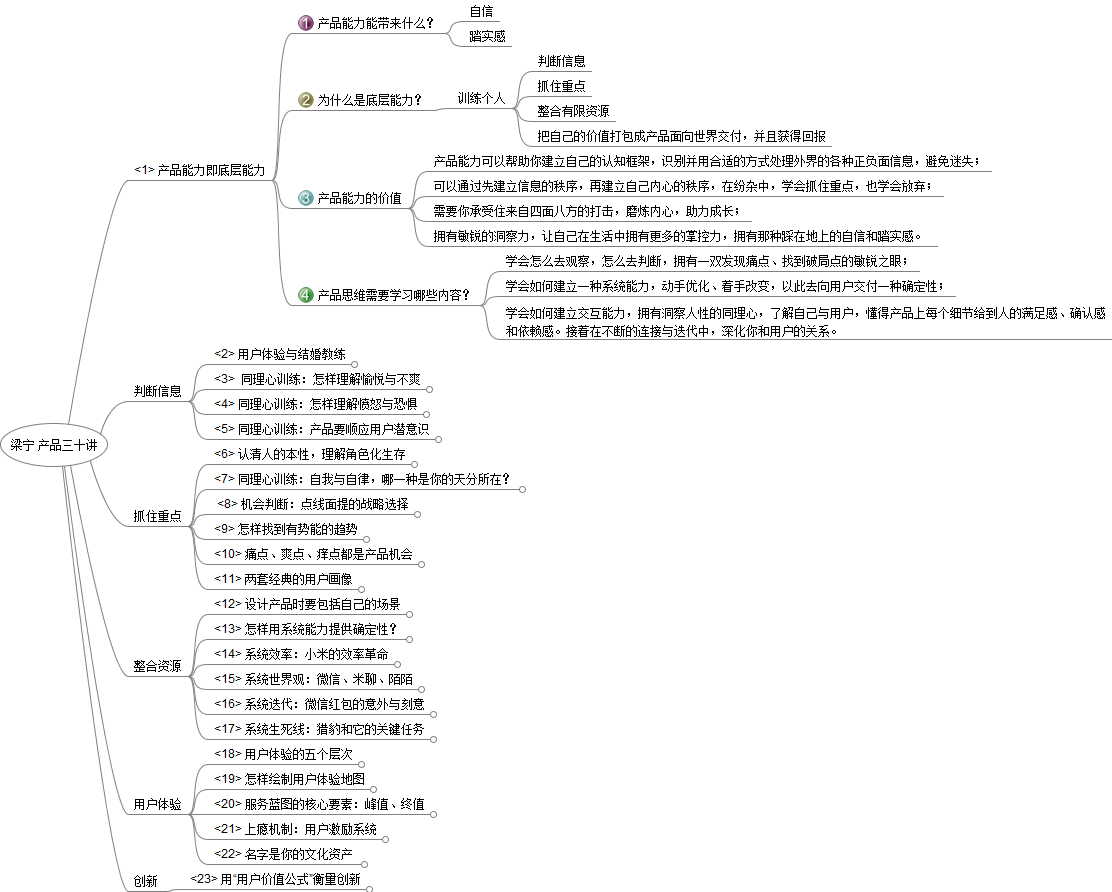
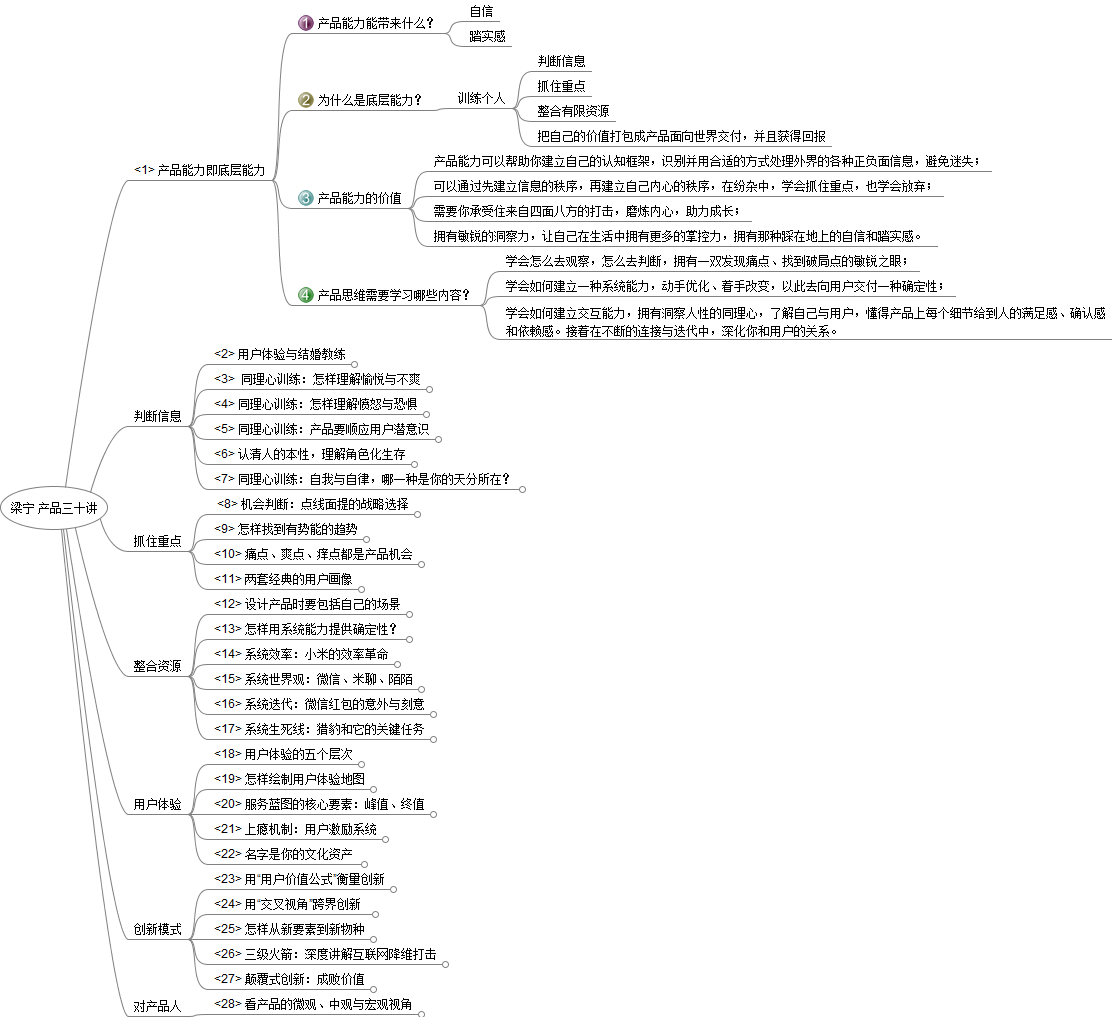
refact: 26,27,28 change style

Changed region(s): [[0.0, 0.0303, 1.0, 1.0], [0.2446, 0.0, 0.4586, 0.0605], [0.3669, 0.9989, 0.3975, 1.0]]

diff --git a/总结.mm b/总结.mm
@@ -1002,6 +1002,111 @@
 </node>
 <node CREATED="1524143092424" ID="ID_1236572864" MODIFIED="1524143127060" TEXT="&#x4f5c;&#x4e1a;&#xff1a;&#x4f60;&#x89c9;&#x5f97;&#x4f60;&#x8eab;&#x8fb9;&#x7684;&#x8c01;&#xff0c;&#x6216;&#x8005;&#x4f60;&#x6307;&#x5bfc;&#x7684;&#x8c01;&#xff0c;&#x7279;&#x522b;&#x64c5;&#x957f;&#x7ed9;&#x81ea;&#x5df1;&#x53bb;&#x5efa;&#x8bbe;&#x52bf;&#x80fd;&#xff1f;"/>
 </node>
+<node CREATED="1524143133844" FOLDED="true" ID="ID_1170859841" MODIFIED="1524187482348" TEXT="&lt;27&gt; &#x98a0;&#x8986;&#x5f0f;&#x521b;&#x65b0;&#xff1a;&#x6210;&#x8d25;&#x4ef7;&#x503c;">
+<node CREATED="1524143768629" ID="ID_37516478" MODIFIED="1524186121019" TEXT="&#x4ec0;&#x4e48;&#x53eb;&#x4ef7;&#x503c;&#x7f51;&#xff1f;">
+<node CREATED="1524179438825" ID="ID_1829557689" MODIFIED="1524179460996" TEXT="&#x771f;&#x6b63;&#x51b3;&#x5b9a;&#x4f01;&#x4e1a;&#x672a;&#x6765;&#x53d1;&#x5c55;&#x65b9;&#x5411;&#x7684;&#x662f;&#x5e02;&#x573a;&#x4ef7;&#x503c;&#x7f51;&#xff0c;&#x800c;&#x975e;&#x7ba1;&#x7406;&#x8005;&#xff1b;"/>
+<node CREATED="1524179463279" ID="ID_458740292" MODIFIED="1524179493691" TEXT="&#x771f;&#x6b63;&#x4e3b;&#x5bfc;&#x4f01;&#x4e1a;&#x53d1;&#x5c55;&#x8fdb;&#x7a0b;&#x7684;&#x662f;&#x673a;&#x6784;&#x4ee5;&#x5916;&#x7684;&#x529b;&#x91cf;&#xff0c;&#x800c;&#x975e;&#x673a;&#x6784;&#x5185;&#x90e8;&#x7684;&#x7ba1;&#x7406;&#x8005;&#x3002;"/>
+<node CREATED="1524179495456" ID="ID_298350315" MODIFIED="1524179511301" TEXT="&#x7ba1;&#x7406;&#x8005;&#x53ea;&#x662f;&#x626e;&#x6f14;&#x4e00;&#x4e2a;&#x8c61;&#x5f81;&#x6027;&#x7684;&#x89d2;&#x8272;&#x3002;"/>
+</node>
+<node CREATED="1524179585671" ID="ID_126298210" MODIFIED="1524186121023" TEXT="&#x4f01;&#x4e1a;&#x771f;&#x6b63;&#x7684;&#x7ba1;&#x7406;&#x8005;">
+<node CREATED="1524179623615" ID="ID_1383856008" MODIFIED="1524179647685" TEXT="&#x8bc6;&#x522b;&#x81ea;&#x5df1;&#x8010;&#x4ee5;&#x751f;&#x5b58;&#x7684;&#x4ef7;&#x503c;&#x7f51;&#x3002;"/>
+<node CREATED="1524179662165" ID="ID_59484804" MODIFIED="1524179670837" TEXT="&#x4e00;&#x4e2a;&#x597d;&#x7684;&#x7ec4;&#x7ec7;&#x7ed3;&#x6784;&#xff0c;&#x5b83;&#x7684;&#x6bcf;&#x4e00;&#x4e2a;&#x7ec4;&#x7ec7;&#x90e8;&#x95e8;&#xff0c;&#x90fd;&#x662f;&#x4e3a;&#x4e86;&#x548c;&#x67d0;&#x4e00;&#x4e2a;&#x793e;&#x4f1a;&#x4ef7;&#x503c;&#x7f51;&#x7684;&#x5206;&#x652f;&#x8fdb;&#x884c;&#x5bf9;&#x63a5;&#x800c;&#x8bbe;&#x8ba1;&#x7684;&#x3002;"/>
+<node CREATED="1524179672170" ID="ID_765759468" MODIFIED="1524179679335" TEXT="&#x4e00;&#x4e2a;&#x5931;&#x8d25;&#x7684;&#x4f01;&#x4e1a;&#x7684;&#x7ec4;&#x7ec7;&#x7ed3;&#x6784;&#xff0c;&#x662f;&#x7ba1;&#x7406;&#x8005;&#x6309;&#x7167;&#x81ea;&#x5df1;&#x9700;&#x6c42;&#x8bbe;&#x7f6e;&#x7684;&#x3002;"/>
+</node>
+<node CREATED="1524180112291" ID="ID_1218609843" MODIFIED="1524186121033" TEXT="&#x4e3a;&#x4ec0;&#x4e48;&#x8c08;&#x4ef7;&#x503c;&#x7f51;&#xff1f;">
+<node CREATED="1524180133326" ID="ID_1773655124" MODIFIED="1524180170042" TEXT="&#x56e0;&#x4e3a;&#x5f88;&#x591a;&#x6ca1;&#x843d;&#x7684;&#x4f01;&#x4e1a;&#xff0c;&#x5728;&#x81ea;&#x5df1;&#x7684;&#x4ef7;&#x503c;&#x7f51;&#x4e0a;&#x4f9d;&#x7136;&#x4f18;&#x79c0;&#xff0c;&#x53ea;&#x662f;&#x5b83;&#x4f9d;&#x9644;&#x7684;&#x4ef7;&#x503c;&#x7f51;&#x8fc7;&#x65f6;&#x4e86;&#xff1b;"/>
+<node CREATED="1524180173973" ID="ID_1589429535" MODIFIED="1524180212291" TEXT="&#x642d;&#x8f7d;&#x5728;&#x65b0;&#x7684;&#x4ef7;&#x503c;&#x7f51;&#x4e0a;&#x7684;&#x4f01;&#x4e1a;&#xff0c;&#x5b9e;&#x73b0;&#x4e86;&#x81ea;&#x5df1;&#x7684;&#x98a0;&#x8986;&#x5f0f;&#x521b;&#x65b0;&#x3002;"/>
+<node CREATED="1524180237192" ID="ID_665170848" MODIFIED="1524180285101" TEXT="&#x5c31;&#x597d;&#x50cf;&#x4f60;&#x662f;&#x4f60;&#x793e;&#x4f1a;&#x5173;&#x7cfb;&#x7684;&#x603b;&#x548c;&#xff0c;&#x4f60;&#x7684;&#x793e;&#x4f1a;&#x5173;&#x7cfb;&#x54fa;&#x80b2;&#x5851;&#x9020;&#x4e86;&#x4f60;&#xff0c;&#x540c;&#x65f6;&#x4ed6;&#x4eec;&#x4e5f;&#x9501;&#x5b9a;&#x3001;&#x9650;&#x5236;&#x548c;&#x675f;&#x7f1a;&#x4e86;&#x4f60;&#x3002;"/>
+<node CREATED="1524180307188" ID="ID_1944298443" MODIFIED="1524180367824" TEXT="&#x4f01;&#x4e1a;&#x6210;&#x5c31;&#x4e8e;&#x81ea;&#x5df1;&#x4e0d;&#x540c;&#x90e8;&#x95e8;&#x548c;&#x5b83;&#x4f9d;&#x9644;&#x4ef7;&#x503c;&#x7f51;&#x4e4b;&#x95f4;&#xff0c;&#x8d44;&#x6e90;&#x4e0e;&#x8d44;&#x91d1;&#x7684;&#x8f93;&#x5165;&#x8f93;&#x51fa;&#x3002;&#x4f46;&#x5b83;&#x8d56;&#x4ee5;&#x5b58;&#x5728;&#x7684;&#x4ef7;&#x503c;&#x7f51;&#xff0c;&#x4e5f;&#x4f1a;&#x9501;&#x6b7b;&#x8fd9;&#x5bb6;&#x4f01;&#x4e1a;&#x3002;"/>
+</node>
+<node CREATED="1524180425912" ID="ID_1648042674" MODIFIED="1524186121047" TEXT="&#x6848;&#x4f8b;UNIVAC&#x4e0e;IBM">
+<node CREATED="1524180450988" ID="ID_1145204859" MODIFIED="1524180461462" TEXT="&#x51fa;&#x53d1;&#x70b9;&#x76f8;&#x540c;&#xff0c;&#x7531;&#x4e8e;&#x5404;&#x81ea;&#x9009;&#x62e9;&#x7684;&#x4ef7;&#x503c;&#x7f51;&#x4e0d;&#x540c;&#xff0c;&#x6700;&#x540e;&#x53ef;&#x80fd;&#x8d70;&#x4e0a;&#x622a;&#x7136;&#x4e0d;&#x540c;&#x7684;&#x8def;&#x3002;"/>
+<node CREATED="1524180569126" ID="ID_1837541087" MODIFIED="1524180573791" TEXT="UNIVAC">
+<node CREATED="1524180574834" ID="ID_1891032056" MODIFIED="1524180635422" TEXT="1950&#x5e74;&#x5de6;&#x53f3;&#xff0c;&#x5e02;&#x573a;&#x8c03;&#x7814;&#x7ed3;&#x8bba;&#xff1a;2000&#x5e74;&#xff0c;&#x7535;&#x8111;&#x9500;&#x552e;&#x91cf;&#x5c06;&#x8fbe;&#x5230;1000&#x53f0;&#x3002;"/>
+<node CREATED="1524180636493" ID="ID_114459626" MODIFIED="1524180660049" TEXT="&#x4e3a;&#x4ec0;&#x4e48;&#x4f1a;&#x51fa;&#x73b0;&#x8fd9;&#x6837;&#x7684;&#x5e02;&#x573a;&#x9884;&#x5224;&#xff1f;">
+<node CREATED="1524180661486" ID="ID_201816659" MODIFIED="1524180681450" TEXT="&#x56e0;&#x4e3a;&#x5b83;&#x57fa;&#x4e8e;&#x81ea;&#x5df1;&#x7684;&#x4ef7;&#x503c;&#x7f51;&#x505a;&#x7684;&#x5224;&#x65ad;"/>
+<node CREATED="1524180682525" ID="ID_37247914" MODIFIED="1524180739361" TEXT="&#x800c;UNIVAC&#x516c;&#x53f8;&#x7684;&#x4ef7;&#x503c;&#x7f51;&#x5c31;&#x662f;&#x4e3a;&#x9876;&#x7ea7;&#x79d1;&#x7814;&#x670d;&#x52a1;&#xff0c;&#x4ece;&#x8fd9;&#x4e2a;&#x89d2;&#x5ea6;&#x800c;&#x8a00;&#xff0c;&#x4ed6;&#x5e76;&#x6ca1;&#x6709;&#x9519;"/>
+</node>
+</node>
+<node CREATED="1524180745455" ID="ID_1616380651" MODIFIED="1524180746837" TEXT="IBM">
+<node CREATED="1524180757494" ID="ID_1389477737" MODIFIED="1524180770040" TEXT="&#x62e5;&#x62b1;&#x4f01;&#x4e1a;&#x5e02;&#x573a;&#x9700;&#x6c42;"/>
+<node CREATED="1524181149508" ID="ID_892092738" MODIFIED="1524181163923" TEXT="&#x4e3a;&#x4ec0;&#x4e48;IBM&#x6ca1;&#x6709;&#x63a8;&#x51fa;&#x5c0f;&#x578b;&#x673a;&#xff1f;">
+<node CREATED="1524181165913" ID="ID_732457346" MODIFIED="1524181215740" TEXT="&#x56e0;&#x4e3a;&#x5b83;&#x7684;&#x5ba2;&#x6237;&#x662f;&#x5927;&#x578b;&#x673a;&#x6784;&#x7684;&#x6838;&#x7b97;&#x548c;&#x6570;&#x636e;&#x5904;&#x7406;&#x90e8;&#x95e8;&#xff0c;&#x4e0d;&#x9700;&#x8981;&#x5c0f;&#x578b;&#x8ba1;&#x7b97;&#x673a;&#x3002;"/>
+<node CREATED="1524181216874" ID="ID_717960713" MODIFIED="1524181237099" TEXT="&#x4ed6;&#x4eec;&#x56e0;&#x4e3a;&#x670d;&#x52a1;&#x5ba2;&#x6237;&#x800c;&#x9519;&#x8fc7;&#x4e86;&#x53e6;&#x5916;&#x4e00;&#x4e2a;&#x5927;&#x7684;&#x589e;&#x957f;&#x3002;"/>
+</node>
+</node>
+</node>
+<node CREATED="1524180863016" ID="ID_1958150298" MODIFIED="1524186121061" TEXT="&#x4ef7;&#x503c;&#x7f51;&#x7684;&#x4e09;&#x5927;&#x8981;&#x7d20;">
+<node CREATED="1524180877660" ID="ID_1205331905" MODIFIED="1524181300733" TEXT="&#x4e00;&#x662f;&#x5ba2;&#x6237;">
+<node CREATED="1524181252641" ID="ID_1449521540" MODIFIED="1524181279508" TEXT="&#x5ba2;&#x6237;&#x662f;&#x6211;&#x4eec;&#x6700;&#x91cd;&#x8981;&#x7684;&#x8d44;&#x4ea7;&#xff0c;&#x4f46;&#x4e5f;&#x53ef;&#x80fd;&#x662f;&#x6211;&#x4eec;&#x6700;&#x4e3b;&#x8981;&#x7684;&#x521b;&#x65b0;&#x76f2;&#x533a;&#x3002;"/>
+<node CREATED="1524181304902" ID="ID_1349740996" MODIFIED="1524181347688" TEXT="&#x6240;&#x4ee5;&#x8d44;&#x6e90;&#x5206;&#x914d;&#x6d41;&#x7a0b;&#x5176;&#x5b9e;&#x4e0d;&#x662f;&#x7ba1;&#x7406;&#x8005;&#x5b9a;&#x4e49;&#x7684;&#xff0c;&#x800c;&#x662f;&#x6765;&#x81ea;&#x4ef7;&#x503c;&#x7f51;&#x4e2d;&#x7684;&#x5ba2;&#x6237;&#x9700;&#x6c42;&#x4e0e;&#x5bf9;&#x624b;&#x6324;&#x538b;&#x3002;"/>
+<node CREATED="1524181351767" ID="ID_472368228" MODIFIED="1524181371844" TEXT="&#x5e76;&#x4e0d;&#x662f;&#x6709;&#x6280;&#x672f;&#x3001;&#x6709;&#x4eba;&#x624d;&#x5c31;&#x4ec0;&#x4e48;&#x90fd;&#x80fd;&#x505a;&#x3002;"/>
+</node>
+<node CREATED="1524180885603" ID="ID_775687150" MODIFIED="1524180892478" TEXT="&#x4e8c;&#x662f;&#x5bf9;&#x624b;">
+<node CREATED="1524181547901" ID="ID_632741922" MODIFIED="1524181592789" TEXT="&#x4e92;&#x76f8;&#x7ade;&#x4e89;&#xff0c;&#x4e92;&#x76f8;&#x53c2;&#x7167;&#xff0c;&#x8c01;&#x4e5f;&#x79bb;&#x4e0d;&#x5f00;&#x8c01;&#xff0c;&#x773c;&#x91cc;&#x5168;&#x662f;&#x7ade;&#x4e89;&#x5bf9;&#x624b;&#x3002;"/>
+<node CREATED="1524181415662" ID="ID_193105361" MODIFIED="1524181435353" TEXT="&#x771f;&#x6b63;&#x7f20;&#x4f4f;&#x4f60;&#x89c6;&#x91ce;&#x7684;&#xff0c;&#x6709;&#x65f6;&#x5019;&#x4e0d;&#x662f;&#x5ba2;&#x6237;&#xff0c;&#x800c;&#x662f;&#x4f60;&#x7684;&#x5bf9;&#x624b;&#x3002;"/>
+<node CREATED="1524181436254" ID="ID_82302353" MODIFIED="1524181465429" TEXT="&#x6240;&#x4ee5;&#xff0c;&#x653e;&#x4e0b;&#x8d2a;&#x5a6a;&#x3001;&#x6124;&#x6012;&#xff0c;&#x8fd9;&#x4e5f;&#x8bb8;&#x771f;&#x7684;&#x8981;&#x8003;&#x667a;&#x6167;&#x3002;"/>
+</node>
+<node CREATED="1524180893531" ID="ID_183141346" MODIFIED="1524180903075" TEXT="&#x4e09;&#x662f;&#x6295;&#x8d44;&#x4eba;">
+<node CREATED="1524181673627" ID="ID_36233939" MODIFIED="1524181689161" TEXT="&#x8d44;&#x672c;&#x6240;&#x8981;&#x6c42;&#x7684;&#x589e;&#x957f;&#x662f;&#x4e2a;&#x9b54;&#x5492;"/>
+<node CREATED="1524182613078" ID="ID_274595385" MODIFIED="1524182614253" TEXT="&#x5728;&#x8d44;&#x672c;&#x7684;&#x589e;&#x957f;&#x538b;&#x529b;&#x4e0b;&#xff0c;&#x5927;&#x516c;&#x53f8;&#x5f88;&#x96be;&#x8fdb;&#x5165;&#x5c0f;&#x5e02;&#x573a;&#xff0c;&#x8fd9;&#x7ed9;&#x4e86;&#x5c0f;&#x7684;&#x521b;&#x4e1a;&#x516c;&#x53f8;&#x5d1b;&#x8d77;&#x7684;&#x673a;&#x4f1a;&#x3002;"/>
+</node>
+<node CREATED="1524180912519" ID="ID_1979613141" MODIFIED="1524180941867" TEXT="&#x5c31;&#x662f;&#x8fd9;&#x4e09;&#x4e2a;&#x6838;&#x5fc3;&#x529b;&#x91cf;&#xff0c;&#x52a0;&#x4e0a;&#x5176;&#x4ed6;&#x5343;&#x4e1d;&#x4e07;&#x7f15;&#x7684;&#x7275;&#x5236;&#xff0c;&#x7262;&#x7262;&#x5730;&#x6346;&#x4f4f;&#x4e00;&#x4e2a;&#x5927;&#x4f01;&#x4e1a;&#x3002;"/>
+</node>
+<node CREATED="1524182631215" ID="ID_1466714188" MODIFIED="1524186121062" TEXT="&#x7ec4;&#x7ec7;&#x7684;&#x5fc3;&#x667a;&#x6a21;&#x5f0f;">
+<node CREATED="1524182643716" ID="ID_627079855" MODIFIED="1524182644748" TEXT="&#x5b9a;&#x4e0b;&#x6765;&#x5c31;&#x771f;&#x7684;&#x5f88;&#x96be;&#x4ee5;&#x6539;&#x53d8;&#xff0c;&#x50cf;&#x6211;&#x4eec;&#x7684;&#x57fa;&#x56e0;&#x4e00;&#x6837;&#x770b;&#x4e0d;&#x89c1;&#xff0c;&#x4f46;&#x51b3;&#x5b9a;&#x7ec4;&#x7ec7;&#x7684;&#x6574;&#x4f53;&#x601d;&#x8003;&#x65b9;&#x5f0f;&#x3002;"/>
+</node>
+<node CREATED="1524182669313" ID="ID_86164653" MODIFIED="1524186121063" TEXT="&#x65b0;&#x7684;&#x589e;&#x91cf;&#x5e02;&#x573a;">
+<node CREATED="1524182679503" ID="ID_1360622039" MODIFIED="1524182680976" TEXT="&#x610f;&#x5473;&#x7740;&#x8fd9;&#x662f;&#x4e00;&#x4e2a;&#x65b0;&#x7684;&#x4ef7;&#x503c;&#x7f51;"/>
+</node>
+<node CREATED="1524182688774" ID="ID_216098309" MODIFIED="1524186121064" TEXT="&#x4ec0;&#x4e48;&#x662f;&#x975e;&#x8fde;&#x7eed;&#xff1f;">
+<node CREATED="1524182699243" ID="ID_1661106839" MODIFIED="1524182700511" TEXT="&#x6574;&#x4e2a;&#x793e;&#x4f1a;&#x5728;&#x53d1;&#x5c55;&#xff0c;&#x6574;&#x4f53;&#x793e;&#x4f1a;&#x80fd;&#x529b;&#x5347;&#x7ea7;&#xff0c;&#x65b0;&#x7684;&#x9700;&#x6c42;&#x88ab;&#x91ca;&#x653e;&#x50ac;&#x751f;&#x65b0;&#x7684;&#x4ef7;&#x503c;&#x7f51;&#x3002;"/>
+</node>
+<node CREATED="1524144615432" ID="ID_3900027" MODIFIED="1524186121067" TEXT="&#x4ec0;&#x4e48;&#x662f;&#x98a0;&#x8986;&#x5f0f;&#x521b;&#x65b0;&#xff1f;">
+<node CREATED="1524144635026" ID="ID_984385313" MODIFIED="1524144635888" TEXT="&#x98a0;&#x8986;&#x5f0f;&#x521b;&#x65b0;&#x6700;&#x91cd;&#x8981;&#x7684;&#x6807;&#x51c6;&#x5c31;&#x662f;&#xff0c;&#x662f;&#x5426;&#x5f00;&#x542f;&#x4e86;&#x4e00;&#x4e2a;&#x65b0;&#x7684;&#x4ef7;&#x503c;&#x7f51;&#xff1f;"/>
+<node CREATED="1524144648993" ID="ID_808387994" MODIFIED="1524144650057" TEXT="&#x4f60;&#x662f;&#x4e0d;&#x662f;&#x5230;&#x4e86;&#x201c;&#x65b0;&#x5927;&#x9646;&#x201d;&#xff1f;&#x4e5f;&#x8bb8;&#x5b83;&#x521a;&#x4e00;&#x5f00;&#x59cb;&#x5f88;&#x5c0f;&#xff0c;&#x4e0d;&#x5230;&#x4f20;&#x7edf;&#x4f01;&#x4e1a;&#x7684;1%&#x3002;&#x4f46;&#x662f;&#xff0c;&#x5b83;&#x4e00;&#x65e6;&#x5f00;&#x59cb;&#xff0c;&#x5c31;&#x4e0d;&#x53ef;&#x9006;&#x3002;"/>
+</node>
+</node>
+</node>
+<node CREATED="1524187450997" ID="ID_1007733726" MODIFIED="1524187462476" POSITION="right" TEXT="&#x5bf9;&#x4ea7;&#x54c1;&#x4eba;">
+<node CREATED="1524182755553" FOLDED="true" ID="ID_364726573" MODIFIED="1524187501828" TEXT="&lt;28&gt; &#x770b;&#x4ea7;&#x54c1;&#x7684;&#x5fae;&#x89c2;&#x3001;&#x4e2d;&#x89c2;&#x4e0e;&#x5b8f;&#x89c2;&#x89c6;&#x89d2;">
+<node CREATED="1524182773231" ID="ID_754969021" MODIFIED="1524183198406" TEXT="&#x4e2d;&#x89c2;&#x9760;&#x5957;&#x8def;">
+<node CREATED="1524182776488" ID="ID_1495453851" MODIFIED="1524182839245" TEXT="&#x5b66;&#x4e60;&#x62db;&#x6570;"/>
+<node CREATED="1524182854733" ID="ID_1315678650" MODIFIED="1524182858156" TEXT="&#x4f18;&#x52bf;">
+<node CREATED="1524182789837" ID="ID_604624217" MODIFIED="1524182791153" TEXT="&#x5927;&#x5b66;&#x6bd5;&#x4e1a;&#x53bb;&#x5927;&#x516c;&#x53f8;&#x662f;&#x6709;&#x4ef7;&#x503c;&#x7684;&#xff0c;&#x56e0;&#x4e3a;&#x5957;&#x8def;&#x6709;&#x4ef7;&#x503c;&#x3002;"/>
+<node CREATED="1524182796135" ID="ID_1345572663" MODIFIED="1524182796986" TEXT="&#x5957;&#x8def;&#x50cf;&#x6b66;&#x529f;&#x62db;&#x6570;&#x4e00;&#x6837;&#xff0c;&#x662f;&#x524d;&#x4eba;&#x603b;&#x7ed3;&#x7684;&#x6709;&#x6548;&#x7ecf;&#x9a8c;&#x3002;"/>
+<node CREATED="1524182801704" ID="ID_711841652" MODIFIED="1524182802848" TEXT="&#x7ec3;&#x597d;&#x5957;&#x8def;&#x53ef;&#x4ee5;&#x81ea;&#x6211;&#x6392;&#x67e5;&#x95ee;&#x9898;&#xff0c;&#x4fbf;&#x4e8e;&#x548c;&#x56e2;&#x961f;&#x6c9f;&#x901a;&#x3002;"/>
+</node>
+<node CREATED="1524182863964" ID="ID_646200353" MODIFIED="1524182866818" TEXT="&#x52a3;&#x52bf;">
+<node CREATED="1524182815995" ID="ID_1791589377" MODIFIED="1524182817266" TEXT="&#x5927;&#x516c;&#x53f8;&#x6559;&#x4f60;&#x5957;&#x8def;&#xff0c;&#x4e5f;&#x4f1a;&#x6df1;&#x6df1;&#x7684;&#x675f;&#x7f1a;&#x4f60;&#x7684;&#x53d1;&#x5c55;&#xff0c;&#x56e0;&#x4e3a;&#x9760;&#x5957;&#x8def;&#x6210;&#x4e0d;&#x4e86;&#x9ad8;&#x624b;&#x3002;"/>
+<node CREATED="1524182830908" ID="ID_1356938761" MODIFIED="1524182833156" TEXT="&#x5957;&#x8def;&#x53ef;&#x4ee5;&#x8ba9;&#x4f60;&#x66f4;&#x6709;&#x7ae0;&#x6cd5;&#x5730;&#x5c55;&#x73b0;&#x81ea;&#x5df1;&#xff0c;&#x66f4;&#x5bb9;&#x6613;&#x641e;&#x5b9a;&#x9762;&#x8bd5;&#x5b98;&#xff0c;&#x6210;&#x4e3a;&#x7cfb;&#x7edf;&#x5185;&#x6309;&#x6307;&#x4ee4;&#x884c;&#x4e8b;&#x7684;&#x516c;&#x53f8;&#x4e2d;&#x5c42;&#x3002;"/>
+<node CREATED="1524182880103" ID="ID_620329354" MODIFIED="1524182881042" TEXT="&#x4f46;&#x5982;&#x679c;&#x60f3;&#x81ea;&#x7acb;&#x95e8;&#x6237;&#x51fa;&#x6765;&#x521b;&#x4e1a;&#xff0c;&#x6210;&#x4e3a;&#x81ea;&#x6211;&#x51b3;&#x7b56;&#x7684;&#x9ad8;&#x624b;&#xff0c;&#x9700;&#x8981;&#x5efa;&#x7acb;&#x7cbe;&#x5fae;&#x7684;&#x5fae;&#x89c2;&#x4f53;&#x611f;&#x3002;"/>
+</node>
+<node CREATED="1524183199815" ID="ID_1765036936" MODIFIED="1524183215212" TEXT="&#x5957;&#x8def;&#x603b;&#x7ed3;">
+<node CREATED="1524183215858" ID="ID_852735967" MODIFIED="1524183252375" TEXT="&#x7528;&#x6237;&#x753b;&#x50cf;&#x3001;&#x75db;&#x70b9;&#x548c;&#x75d2;&#x70b9;&#x3001;&#x6574;&#x4f53;&#x6d41;&#x7a0b;&#x56fe;&#x3001;&#x7528;&#x6237;&#x4f53;&#x9a8c;&#x5730;&#x56fe;&#x548c;&#x670d;&#x52a1;&#x5730;&#x56fe;"/>
+</node>
+</node>
+<node CREATED="1524182894002" ID="ID_1316639540" MODIFIED="1524186110021" TEXT="&#x5fae;&#x89c2;&#x9760;&#x4f53;&#x611f;">
+<node CREATED="1524182902633" ID="ID_1725625371" MODIFIED="1524182906049" TEXT="&#x6210;&#x4e3a;&#x9ad8;&#x624b;"/>
+<node CREATED="1524182925958" ID="ID_1712935939" MODIFIED="1524182932787" TEXT="&#x4ea7;&#x54c1;&#x662f;&#x4e00;&#x79cd;&#x88ab;&#x52a8;&#x7684;&#x827a;&#x672f;&#x3002;"/>
+<node CREATED="1524182933884" ID="ID_1741277764" MODIFIED="1524182935081" TEXT="&#x4e00;&#x4e2a;&#x4ea7;&#x54c1;&#x53ea;&#x80fd;&#x5728;&#x88ab;&#x52a8;&#x4e2d;&#xff0c;&#x9ed8;&#x9ed8;&#x628a;&#x63e1;&#x6bcf;&#x4e00;&#x4e2a;&#x5fae;&#x5c0f;&#x7684;&#x4e3b;&#x52a8;&#x673a;&#x4f1a;&#xff0c;&#x5728;&#x6bcf;&#x4e00;&#x4e2a;&#x63a5;&#x89e6;&#x7684;&#x77ac;&#x95f4;&#xff0c;&#x6bcf;&#x4e00;&#x6b21;&#x7684;&#x4ea4;&#x4e92;&#x91cc;&#xff0c;&#x8ba9;&#x7528;&#x6237;&#x987a;&#x7545;&#x5730;&#x6df1;&#x5165;&#x4e0b;&#x6765;&#x3002;"/>
+<node CREATED="1524182958621" ID="ID_276237103" MODIFIED="1524182959520" TEXT="&#x4e00;&#x4e07;&#x5c0f;&#x65f6;&#x6210;&#x529f;&#x5b9a;&#x5f8b;&#x4e2d;&#xff0c;&#x5927;&#x91cf;&#x7684;&#x65f6;&#x95f4;&#x90fd;&#x662f;&#x5728;&#x5efa;&#x7acb;&#x7ec6;&#x5fae;&#x7684;&#x5fae;&#x89c2;&#x4f53;&#x611f;&#xff0c;&#x5efa;&#x7acb;&#x957f;&#x5728;&#x81ea;&#x5df1;&#x8eab;&#x4f53;&#x4e0a;&#x7684;&#x771f;&#x5b9e;&#x611f;&#x89c9;&#xff0c;&#x7728;&#x773c;&#x4e4b;&#x95f4;&#x7684;&#x597d;&#x6076;&#x5224;&#x65ad;&#x3002;"/>
+<node CREATED="1524182964591" ID="ID_387276068" MODIFIED="1524182965775" TEXT="&#x53ea;&#x77e5;&#x9053;&#x5957;&#x8def;&#xff0c;&#x7f3a;&#x4e4f;&#x5fae;&#x89c2;&#x4f53;&#x611f;&#xff0c;&#x5982;&#x540c;&#x7eb8;&#x4e0a;&#x8c08;&#x5175;&#xff0c;&#x8bf4;&#x7684;&#x90fd;&#x5bf9;&#xff0c;&#x505a;&#x8d77;&#x6765;&#x4e0d;&#x5230;&#x4f4d;&#x3002;"/>
+</node>
+<node CREATED="1524182971574" ID="ID_1840330776" MODIFIED="1524182977424" TEXT="&#x5b8f;&#x89c2;&#x9760;&#x80fd;&#x529b;">
+<node CREATED="1524182981713" ID="ID_1672527087" MODIFIED="1524183485294" TEXT="&#x6253;&#x5927;&#x4ed7;"/>
+<node CREATED="1524183302153" ID="ID_932049305" MODIFIED="1524183303052" TEXT="&#x4ec0;&#x4e48;&#x662f;&#x5b8f;&#x89c2;&#x80fd;&#x529b;&#xff1f;">
+<node CREATED="1524183309303" ID="ID_826406302" MODIFIED="1524183310266" TEXT="&#x5c31;&#x662f;&#x6253;&#x5927;&#x4ed7;&#x7684;&#x80fd;&#x529b;&#x3002;&#x5927;&#x4ed7;&#x62fc;&#x80dc;&#x8d1f;&#xff0c;&#x9760;&#x7684;&#x662f;&#x5b8f;&#x89c2;&#x80fd;&#x529b;&#x3002;"/>
+</node>
+<node CREATED="1524183486408" ID="ID_1508298041" MODIFIED="1524183552406" TEXT="&#x51e0;&#x5bb6;&#x5b9a;&#x4f4d;&#x76f8;&#x4f3c;&#xff0c;&#x4f53;&#x9a8c;&#x76f8;&#x4f3c;&#x7684;&#x4ea7;&#x54c1;&#xff0c;&#x9760;&#x4f18;&#x5316;&#x7528;&#x6237;&#x4f53;&#x9a8c;&#xff0c;&#x5176;&#x5b9e;&#x662f;&#x65e0;&#x6cd5;&#x7ec8;&#x7ed3;&#x6218;&#x4e89;&#x7684;&#x3002;&#x5927;&#x4ed7;&#x62fc;&#x80dc;&#x8d1f;&#xff0c;&#x9760;&#x7684;&#x662f;&#x5b8f;&#x89c2;&#x80fd;&#x529b;&#x3002;"/>
+</node>
+<node CREATED="1524183564654" ID="ID_1529003223" MODIFIED="1524183569003" TEXT="&#x5c0f;&#x7ed3;">
+<node CREATED="1524183327987" ID="ID_757412639" MODIFIED="1524183596353" TEXT="&#x7ec3;&#x597d;&#x5957;&#x8def;&#xff0c;&#x5728;&#x5927;&#x516c;&#x53f8;&#x505a;&#x5230;&#x4e2d;&#x5c42;&#x6ca1;&#x95ee;&#x9898;&#x3002;"/>
+<node CREATED="1524183597729" ID="ID_188936781" MODIFIED="1524183603561" TEXT="&#x8981;&#x60f3;&#x81ea;&#x5df1;&#x4e3a;&#x7ed3;&#x679c;&#x8d1f;&#x8d23;&#xff0c;&#x5f00;&#x95e8;&#x7acb;&#x6237;&#x521b;&#x4e1a;&#xff0c;&#x5fc5;&#x987b;&#x6709;&#x957f;&#x5728;&#x81ea;&#x5df1;&#x8eab;&#x4e0a;&#x7684;&#x5fae;&#x89c2;&#x4f53;&#x611f;&#x3002;"/>
+<node CREATED="1524183621897" ID="ID_1535716457" MODIFIED="1524183637985" TEXT="&#x6ca1;&#x6709;&#x5fae;&#x89c2;&#x4f53;&#x611f;&#xff0c;&#x9760;&#x5957;&#x8def;&#x5224;&#x65ad;&#xff0c;&#x5c31;&#x662f;&#x81ea;&#x6b3a;&#x6b3a;&#x4eba;&#x3002;"/>
+<node CREATED="1524183604797" ID="ID_319610250" MODIFIED="1524183605608" TEXT="&#x6253;&#x5927;&#x4ed7;&#xff0c;&#x505a;&#x9876;&#x7ea7;&#x9ad8;&#x624b;&#xff0c;&#x5176;&#x5b9e;&#x5b8f;&#x89c2;&#x80fd;&#x529b;&#x4e5f;&#x8981;&#x5f3a;&#x3002;"/>
+</node>
+</node>
 </node>
 </node>
 </map>

diff --git a/27.颠覆式创新：成败价值.mm b/27.颠覆式创新：成败价值.mm
@@ -1,23 +1,23 @@
 <map version="1.0.1">
 <!-- To view this file, download free mind mapping software FreeMind from http://freemind.sourceforge.net -->
-<node CREATED="1524143133844" ID="ID_1170859841" MODIFIED="1524182667193" TEXT="&#x98a0;&#x8986;&#x5f0f;&#x521b;&#x65b0;&#xff1a;&#x6210;&#x8d25;&#x4ef7;&#x503c;">
-<node CREATED="1524143768629" FOLDED="true" ID="ID_37516478" MODIFIED="1524181667351" POSITION="right" TEXT="&#x4ec0;&#x4e48;&#x53eb;&#x4ef7;&#x503c;&#x7f51;&#xff1f;">
+<node CREATED="1524143133844" ID="ID_1170859841" MODIFIED="1524187470984" TEXT="&#x98a0;&#x8986;&#x5f0f;&#x521b;&#x65b0;&#xff1a;&#x6210;&#x8d25;&#x4ef7;&#x503c;">
+<node CREATED="1524143768629" ID="ID_37516478" MODIFIED="1524186121019" POSITION="right" TEXT="&#x4ec0;&#x4e48;&#x53eb;&#x4ef7;&#x503c;&#x7f51;&#xff1f;">
 <node CREATED="1524179438825" ID="ID_1829557689" MODIFIED="1524179460996" TEXT="&#x771f;&#x6b63;&#x51b3;&#x5b9a;&#x4f01;&#x4e1a;&#x672a;&#x6765;&#x53d1;&#x5c55;&#x65b9;&#x5411;&#x7684;&#x662f;&#x5e02;&#x573a;&#x4ef7;&#x503c;&#x7f51;&#xff0c;&#x800c;&#x975e;&#x7ba1;&#x7406;&#x8005;&#xff1b;"/>
 <node CREATED="1524179463279" ID="ID_458740292" MODIFIED="1524179493691" TEXT="&#x771f;&#x6b63;&#x4e3b;&#x5bfc;&#x4f01;&#x4e1a;&#x53d1;&#x5c55;&#x8fdb;&#x7a0b;&#x7684;&#x662f;&#x673a;&#x6784;&#x4ee5;&#x5916;&#x7684;&#x529b;&#x91cf;&#xff0c;&#x800c;&#x975e;&#x673a;&#x6784;&#x5185;&#x90e8;&#x7684;&#x7ba1;&#x7406;&#x8005;&#x3002;"/>
 <node CREATED="1524179495456" ID="ID_298350315" MODIFIED="1524179511301" TEXT="&#x7ba1;&#x7406;&#x8005;&#x53ea;&#x662f;&#x626e;&#x6f14;&#x4e00;&#x4e2a;&#x8c61;&#x5f81;&#x6027;&#x7684;&#x89d2;&#x8272;&#x3002;"/>
 </node>
-<node CREATED="1524179585671" FOLDED="true" ID="ID_126298210" MODIFIED="1524181665736" POSITION="right" TEXT="&#x4f01;&#x4e1a;&#x771f;&#x6b63;&#x7684;&#x7ba1;&#x7406;&#x8005;">
+<node CREATED="1524179585671" ID="ID_126298210" MODIFIED="1524186121023" POSITION="right" TEXT="&#x4f01;&#x4e1a;&#x771f;&#x6b63;&#x7684;&#x7ba1;&#x7406;&#x8005;">
 <node CREATED="1524179623615" ID="ID_1383856008" MODIFIED="1524179647685" TEXT="&#x8bc6;&#x522b;&#x81ea;&#x5df1;&#x8010;&#x4ee5;&#x751f;&#x5b58;&#x7684;&#x4ef7;&#x503c;&#x7f51;&#x3002;"/>
 <node CREATED="1524179662165" ID="ID_59484804" MODIFIED="1524179670837" TEXT="&#x4e00;&#x4e2a;&#x597d;&#x7684;&#x7ec4;&#x7ec7;&#x7ed3;&#x6784;&#xff0c;&#x5b83;&#x7684;&#x6bcf;&#x4e00;&#x4e2a;&#x7ec4;&#x7ec7;&#x90e8;&#x95e8;&#xff0c;&#x90fd;&#x662f;&#x4e3a;&#x4e86;&#x548c;&#x67d0;&#x4e00;&#x4e2a;&#x793e;&#x4f1a;&#x4ef7;&#x503c;&#x7f51;&#x7684;&#x5206;&#x652f;&#x8fdb;&#x884c;&#x5bf9;&#x63a5;&#x800c;&#x8bbe;&#x8ba1;&#x7684;&#x3002;"/>
 <node CREATED="1524179672170" ID="ID_765759468" MODIFIED="1524179679335" TEXT="&#x4e00;&#x4e2a;&#x5931;&#x8d25;&#x7684;&#x4f01;&#x4e1a;&#x7684;&#x7ec4;&#x7ec7;&#x7ed3;&#x6784;&#xff0c;&#x662f;&#x7ba1;&#x7406;&#x8005;&#x6309;&#x7167;&#x81ea;&#x5df1;&#x9700;&#x6c42;&#x8bbe;&#x7f6e;&#x7684;&#x3002;"/>
 </node>
-<node CREATED="1524180112291" FOLDED="true" ID="ID_1218609843" MODIFIED="1524181668240" POSITION="right" TEXT="&#x4e3a;&#x4ec0;&#x4e48;&#x8c08;&#x4ef7;&#x503c;&#x7f51;&#xff1f;">
+<node CREATED="1524180112291" ID="ID_1218609843" MODIFIED="1524186121033" POSITION="right" TEXT="&#x4e3a;&#x4ec0;&#x4e48;&#x8c08;&#x4ef7;&#x503c;&#x7f51;&#xff1f;">
 <node CREATED="1524180133326" ID="ID_1773655124" MODIFIED="1524180170042" TEXT="&#x56e0;&#x4e3a;&#x5f88;&#x591a;&#x6ca1;&#x843d;&#x7684;&#x4f01;&#x4e1a;&#xff0c;&#x5728;&#x81ea;&#x5df1;&#x7684;&#x4ef7;&#x503c;&#x7f51;&#x4e0a;&#x4f9d;&#x7136;&#x4f18;&#x79c0;&#xff0c;&#x53ea;&#x662f;&#x5b83;&#x4f9d;&#x9644;&#x7684;&#x4ef7;&#x503c;&#x7f51;&#x8fc7;&#x65f6;&#x4e86;&#xff1b;"/>
 <node CREATED="1524180173973" ID="ID_1589429535" MODIFIED="1524180212291" TEXT="&#x642d;&#x8f7d;&#x5728;&#x65b0;&#x7684;&#x4ef7;&#x503c;&#x7f51;&#x4e0a;&#x7684;&#x4f01;&#x4e1a;&#xff0c;&#x5b9e;&#x73b0;&#x4e86;&#x81ea;&#x5df1;&#x7684;&#x98a0;&#x8986;&#x5f0f;&#x521b;&#x65b0;&#x3002;"/>
 <node CREATED="1524180237192" ID="ID_665170848" MODIFIED="1524180285101" TEXT="&#x5c31;&#x597d;&#x50cf;&#x4f60;&#x662f;&#x4f60;&#x793e;&#x4f1a;&#x5173;&#x7cfb;&#x7684;&#x603b;&#x548c;&#xff0c;&#x4f60;&#x7684;&#x793e;&#x4f1a;&#x5173;&#x7cfb;&#x54fa;&#x80b2;&#x5851;&#x9020;&#x4e86;&#x4f60;&#xff0c;&#x540c;&#x65f6;&#x4ed6;&#x4eec;&#x4e5f;&#x9501;&#x5b9a;&#x3001;&#x9650;&#x5236;&#x548c;&#x675f;&#x7f1a;&#x4e86;&#x4f60;&#x3002;"/>
 <node CREATED="1524180307188" ID="ID_1944298443" MODIFIED="1524180367824" TEXT="&#x4f01;&#x4e1a;&#x6210;&#x5c31;&#x4e8e;&#x81ea;&#x5df1;&#x4e0d;&#x540c;&#x90e8;&#x95e8;&#x548c;&#x5b83;&#x4f9d;&#x9644;&#x4ef7;&#x503c;&#x7f51;&#x4e4b;&#x95f4;&#xff0c;&#x8d44;&#x6e90;&#x4e0e;&#x8d44;&#x91d1;&#x7684;&#x8f93;&#x5165;&#x8f93;&#x51fa;&#x3002;&#x4f46;&#x5b83;&#x8d56;&#x4ee5;&#x5b58;&#x5728;&#x7684;&#x4ef7;&#x503c;&#x7f51;&#xff0c;&#x4e5f;&#x4f1a;&#x9501;&#x6b7b;&#x8fd9;&#x5bb6;&#x4f01;&#x4e1a;&#x3002;"/>
 </node>
-<node CREATED="1524180425912" FOLDED="true" ID="ID_1648042674" MODIFIED="1524181655678" POSITION="right" TEXT="&#x6848;&#x4f8b;UNIVAC&#x4e0e;IBM">
+<node CREATED="1524180425912" ID="ID_1648042674" MODIFIED="1524186121047" POSITION="right" TEXT="&#x6848;&#x4f8b;UNIVAC&#x4e0e;IBM">
 <node CREATED="1524180450988" ID="ID_1145204859" MODIFIED="1524180461462" TEXT="&#x51fa;&#x53d1;&#x70b9;&#x76f8;&#x540c;&#xff0c;&#x7531;&#x4e8e;&#x5404;&#x81ea;&#x9009;&#x62e9;&#x7684;&#x4ef7;&#x503c;&#x7f51;&#x4e0d;&#x540c;&#xff0c;&#x6700;&#x540e;&#x53ef;&#x80fd;&#x8d70;&#x4e0a;&#x622a;&#x7136;&#x4e0d;&#x540c;&#x7684;&#x8def;&#x3002;"/>
 <node CREATED="1524180569126" ID="ID_1837541087" MODIFIED="1524180573791" TEXT="UNIVAC">
 <node CREATED="1524180574834" ID="ID_1891032056" MODIFIED="1524180635422" TEXT="1950&#x5e74;&#x5de6;&#x53f3;&#xff0c;&#x5e02;&#x573a;&#x8c03;&#x7814;&#x7ed3;&#x8bba;&#xff1a;2000&#x5e74;&#xff0c;&#x7535;&#x8111;&#x9500;&#x552e;&#x91cf;&#x5c06;&#x8fbe;&#x5230;1000&#x53f0;&#x3002;"/>
@@ -34,7 +34,7 @@
 </node>
 </node>
 </node>
-<node CREATED="1524180863016" FOLDED="true" ID="ID_1958150298" MODIFIED="1524182636024" POSITION="right" TEXT="&#x4ef7;&#x503c;&#x7f51;&#x7684;&#x4e09;&#x5927;&#x8981;&#x7d20;">
+<node CREATED="1524180863016" ID="ID_1958150298" MODIFIED="1524186121061" POSITION="right" TEXT="&#x4ef7;&#x503c;&#x7f51;&#x7684;&#x4e09;&#x5927;&#x8981;&#x7d20;">
 <node CREATED="1524180877660" ID="ID_1205331905" MODIFIED="1524181300733" TEXT="&#x4e00;&#x662f;&#x5ba2;&#x6237;">
 <node CREATED="1524181252641" ID="ID_1449521540" MODIFIED="1524181279508" TEXT="&#x5ba2;&#x6237;&#x662f;&#x6211;&#x4eec;&#x6700;&#x91cd;&#x8981;&#x7684;&#x8d44;&#x4ea7;&#xff0c;&#x4f46;&#x4e5f;&#x53ef;&#x80fd;&#x662f;&#x6211;&#x4eec;&#x6700;&#x4e3b;&#x8981;&#x7684;&#x521b;&#x65b0;&#x76f2;&#x533a;&#x3002;"/>
 <node CREATED="1524181304902" ID="ID_1349740996" MODIFIED="1524181347688" TEXT="&#x6240;&#x4ee5;&#x8d44;&#x6e90;&#x5206;&#x914d;&#x6d41;&#x7a0b;&#x5176;&#x5b9e;&#x4e0d;&#x662f;&#x7ba1;&#x7406;&#x8005;&#x5b9a;&#x4e49;&#x7684;&#xff0c;&#x800c;&#x662f;&#x6765;&#x81ea;&#x4ef7;&#x503c;&#x7f51;&#x4e2d;&#x7684;&#x5ba2;&#x6237;&#x9700;&#x6c42;&#x4e0e;&#x5bf9;&#x624b;&#x6324;&#x538b;&#x3002;"/>
@@ -51,16 +51,16 @@
 </node>
 <node CREATED="1524180912519" ID="ID_1979613141" MODIFIED="1524180941867" TEXT="&#x5c31;&#x662f;&#x8fd9;&#x4e09;&#x4e2a;&#x6838;&#x5fc3;&#x529b;&#x91cf;&#xff0c;&#x52a0;&#x4e0a;&#x5176;&#x4ed6;&#x5343;&#x4e1d;&#x4e07;&#x7f15;&#x7684;&#x7275;&#x5236;&#xff0c;&#x7262;&#x7262;&#x5730;&#x6346;&#x4f4f;&#x4e00;&#x4e2a;&#x5927;&#x4f01;&#x4e1a;&#x3002;"/>
 </node>
-<node CREATED="1524182631215" FOLDED="true" ID="ID_1466714188" MODIFIED="1524182654567" POSITION="right" TEXT="&#x7ec4;&#x7ec7;&#x7684;&#x5fc3;&#x667a;&#x6a21;&#x5f0f;">
+<node CREATED="1524182631215" ID="ID_1466714188" MODIFIED="1524186121062" POSITION="right" TEXT="&#x7ec4;&#x7ec7;&#x7684;&#x5fc3;&#x667a;&#x6a21;&#x5f0f;">
 <node CREATED="1524182643716" ID="ID_627079855" MODIFIED="1524182644748" TEXT="&#x5b9a;&#x4e0b;&#x6765;&#x5c31;&#x771f;&#x7684;&#x5f88;&#x96be;&#x4ee5;&#x6539;&#x53d8;&#xff0c;&#x50cf;&#x6211;&#x4eec;&#x7684;&#x57fa;&#x56e0;&#x4e00;&#x6837;&#x770b;&#x4e0d;&#x89c1;&#xff0c;&#x4f46;&#x51b3;&#x5b9a;&#x7ec4;&#x7ec7;&#x7684;&#x6574;&#x4f53;&#x601d;&#x8003;&#x65b9;&#x5f0f;&#x3002;"/>
 </node>
-<node CREATED="1524182669313" FOLDED="true" ID="ID_86164653" MODIFIED="1524182707114" POSITION="right" TEXT="&#x65b0;&#x7684;&#x589e;&#x91cf;&#x5e02;&#x573a;">
+<node CREATED="1524182669313" ID="ID_86164653" MODIFIED="1524186121063" POSITION="right" TEXT="&#x65b0;&#x7684;&#x589e;&#x91cf;&#x5e02;&#x573a;">
 <node CREATED="1524182679503" ID="ID_1360622039" MODIFIED="1524182680976" TEXT="&#x610f;&#x5473;&#x7740;&#x8fd9;&#x662f;&#x4e00;&#x4e2a;&#x65b0;&#x7684;&#x4ef7;&#x503c;&#x7f51;"/>
 </node>
-<node CREATED="1524182688774" FOLDED="true" ID="ID_216098309" MODIFIED="1524182706418" POSITION="right" TEXT="&#x4ec0;&#x4e48;&#x662f;&#x975e;&#x8fde;&#x7eed;&#xff1f;">
+<node CREATED="1524182688774" ID="ID_216098309" MODIFIED="1524186121064" POSITION="right" TEXT="&#x4ec0;&#x4e48;&#x662f;&#x975e;&#x8fde;&#x7eed;&#xff1f;">
 <node CREATED="1524182699243" ID="ID_1661106839" MODIFIED="1524182700511" TEXT="&#x6574;&#x4e2a;&#x793e;&#x4f1a;&#x5728;&#x53d1;&#x5c55;&#xff0c;&#x6574;&#x4f53;&#x793e;&#x4f1a;&#x80fd;&#x529b;&#x5347;&#x7ea7;&#xff0c;&#x65b0;&#x7684;&#x9700;&#x6c42;&#x88ab;&#x91ca;&#x653e;&#x50ac;&#x751f;&#x65b0;&#x7684;&#x4ef7;&#x503c;&#x7f51;&#x3002;"/>
 </node>
-<node CREATED="1524144615432" FOLDED="true" ID="ID_3900027" MODIFIED="1524181186691" POSITION="right" TEXT="&#x4ec0;&#x4e48;&#x662f;&#x98a0;&#x8986;&#x5f0f;&#x521b;&#x65b0;&#xff1f;">
+<node CREATED="1524144615432" ID="ID_3900027" MODIFIED="1524186121067" POSITION="right" TEXT="&#x4ec0;&#x4e48;&#x662f;&#x98a0;&#x8986;&#x5f0f;&#x521b;&#x65b0;&#xff1f;">
 <node CREATED="1524144635026" ID="ID_984385313" MODIFIED="1524144635888" TEXT="&#x98a0;&#x8986;&#x5f0f;&#x521b;&#x65b0;&#x6700;&#x91cd;&#x8981;&#x7684;&#x6807;&#x51c6;&#x5c31;&#x662f;&#xff0c;&#x662f;&#x5426;&#x5f00;&#x542f;&#x4e86;&#x4e00;&#x4e2a;&#x65b0;&#x7684;&#x4ef7;&#x503c;&#x7f51;&#xff1f;"/>
 <node CREATED="1524144648993" ID="ID_808387994" MODIFIED="1524144650057" TEXT="&#x4f60;&#x662f;&#x4e0d;&#x662f;&#x5230;&#x4e86;&#x201c;&#x65b0;&#x5927;&#x9646;&#x201d;&#xff1f;&#x4e5f;&#x8bb8;&#x5b83;&#x521a;&#x4e00;&#x5f00;&#x59cb;&#x5f88;&#x5c0f;&#xff0c;&#x4e0d;&#x5230;&#x4f20;&#x7edf;&#x4f01;&#x4e1a;&#x7684;1%&#x3002;&#x4f46;&#x662f;&#xff0c;&#x5b83;&#x4e00;&#x65e6;&#x5f00;&#x59cb;&#xff0c;&#x5c31;&#x4e0d;&#x53ef;&#x9006;&#x3002;"/>
 </node>

diff --git a/28.看产品的微观、中观与宏观视角.mm b/28.看产品的微观、中观与宏观视角.mm
@@ -1,6 +1,6 @@
 <map version="1.0.1">
 <!-- To view this file, download free mind mapping software FreeMind from http://freemind.sourceforge.net -->
-<node CREATED="1524182755553" ID="ID_364726573" MODIFIED="1524182758839" TEXT="&#x770b;&#x4ea7;&#x54c1;&#x7684;&#x5fae;&#x89c2;&#x3001;&#x4e2d;&#x89c2;&#x4e0e;&#x5b8f;&#x89c2;&#x89c6;&#x89d2;">
+<node CREATED="1524182755553" ID="ID_364726573" MODIFIED="1524186095657" TEXT="&#x770b;&#x4ea7;&#x54c1;&#x7684;&#x5fae;&#x89c2;&#x3001;&#x4e2d;&#x89c2;&#x4e0e;&#x5b8f;&#x89c2;&#x89c6;&#x89d2;">
 <node CREATED="1524182773231" ID="ID_754969021" MODIFIED="1524183198406" POSITION="right" TEXT="&#x4e2d;&#x89c2;&#x9760;&#x5957;&#x8def;">
 <node CREATED="1524182776488" ID="ID_1495453851" MODIFIED="1524182839245" TEXT="&#x5b66;&#x4e60;&#x62db;&#x6570;"/>
 <node CREATED="1524182854733" ID="ID_1315678650" MODIFIED="1524182858156" TEXT="&#x4f18;&#x52bf;">
@@ -17,7 +17,7 @@
 <node CREATED="1524183215858" ID="ID_852735967" MODIFIED="1524183252375" TEXT="&#x7528;&#x6237;&#x753b;&#x50cf;&#x3001;&#x75db;&#x70b9;&#x548c;&#x75d2;&#x70b9;&#x3001;&#x6574;&#x4f53;&#x6d41;&#x7a0b;&#x56fe;&#x3001;&#x7528;&#x6237;&#x4f53;&#x9a8c;&#x5730;&#x56fe;&#x548c;&#x670d;&#x52a1;&#x5730;&#x56fe;"/>
 </node>
 </node>
-<node CREATED="1524182894002" FOLDED="true" ID="ID_1316639540" MODIFIED="1524182968635" POSITION="right" TEXT="&#x5fae;&#x89c2;&#x9760;&#x4f53;&#x611f;">
+<node CREATED="1524182894002" ID="ID_1316639540" MODIFIED="1524186110021" POSITION="right" TEXT="&#x5fae;&#x89c2;&#x9760;&#x4f53;&#x611f;">
 <node CREATED="1524182902633" ID="ID_1725625371" MODIFIED="1524182906049" TEXT="&#x6210;&#x4e3a;&#x9ad8;&#x624b;"/>
 <node CREATED="1524182925958" ID="ID_1712935939" MODIFIED="1524182932787" TEXT="&#x4ea7;&#x54c1;&#x662f;&#x4e00;&#x79cd;&#x88ab;&#x52a8;&#x7684;&#x827a;&#x672f;&#x3002;"/>
 <node CREATED="1524182933884" ID="ID_1741277764" MODIFIED="1524182935081" TEXT="&#x4e00;&#x4e2a;&#x4ea7;&#x54c1;&#x53ea;&#x80fd;&#x5728;&#x88ab;&#x52a8;&#x4e2d;&#xff0c;&#x9ed8;&#x9ed8;&#x628a;&#x63e1;&#x6bcf;&#x4e00;&#x4e2a;&#x5fae;&#x5c0f;&#x7684;&#x4e3b;&#x52a8;&#x673a;&#x4f1a;&#xff0c;&#x5728;&#x6bcf;&#x4e00;&#x4e2a;&#x63a5;&#x89e6;&#x7684;&#x77ac;&#x95f4;&#xff0c;&#x6bcf;&#x4e00;&#x6b21;&#x7684;&#x4ea4;&#x4e92;&#x91cc;&#xff0c;&#x8ba9;&#x7528;&#x6237;&#x987a;&#x7545;&#x5730;&#x6df1;&#x5165;&#x4e0b;&#x6765;&#x3002;"/>
